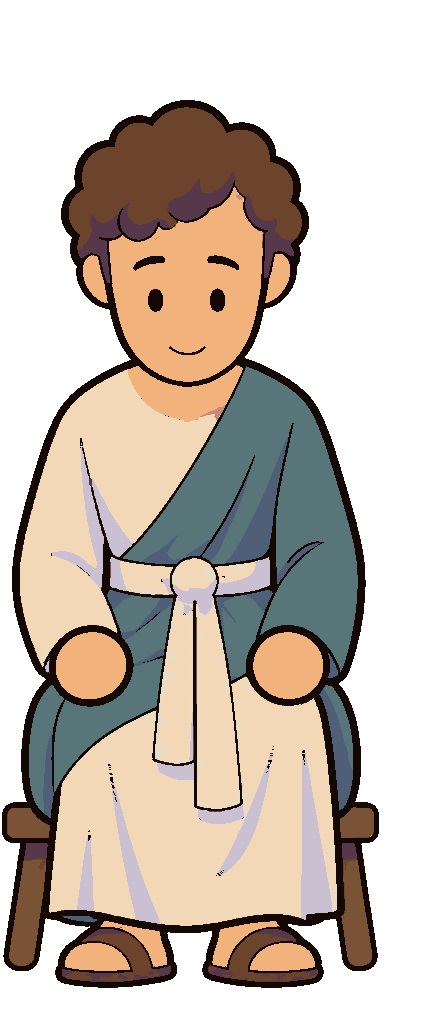
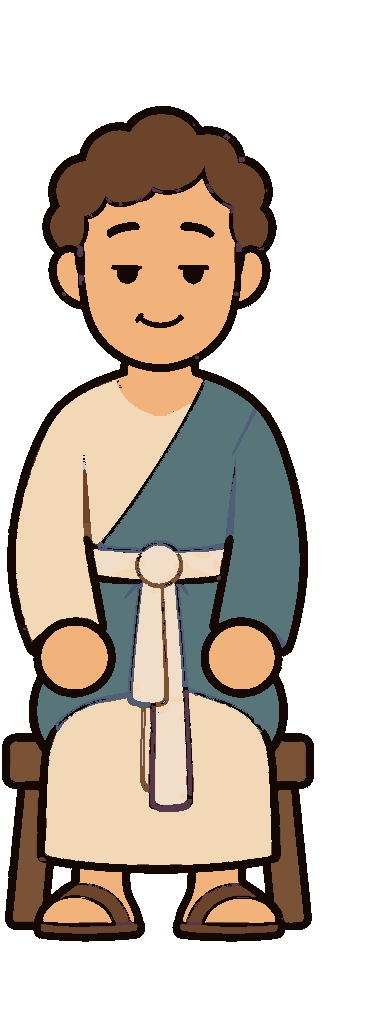
fix(animations): redraw the lead's close from his table sheet's down, lids on the scroll, so he is one man across the cold card; a cross-sheet head check holds each sheet's hair shade within 5 points of the member's first sheet (critique 2, finding 1)

diff --git a/apps/animations/src/films/in-its-order/storybook/sheets.ts b/apps/animations/src/films/in-its-order/storybook/sheets.ts
@@ -41,10 +41,6 @@ const LEAD_CUP =
   'a small plain clay cup painted exactly #7a5236, seen from the side, its rim hiding the milk';
 const VILLAGER_CUP = cup('#7a5236', '#d9cdb8');
 
-/** The lead seated, the bottle set down out of the picture, head bowed: one pose in his table sheet and his close (the table hides his lap, and a cream bottle on it read as his sash). */
-const LEAD_DOWN =
-  'seated on the stool exactly as in the first figure, the head bowed a little, the eyes looking down in front of him, both round hands in their sleeves resting empty on the knees, no bottle, a small sheepish mouth';
-
 /** What the lead's seated sheets ask beyond `seated`: his sash's pale cream on the sash alone, since his tunic's cream is near it and anything else in it read as the sash's top. */
 const SASH_ALONE =
   "The sash's pale cream #eadcc2 is on the sash alone: the tunic, its neckline and anything held, the bottle too, are the tunic's warm cream #f2d8b7 or another paint, never the sash's.";
@@ -84,22 +80,30 @@ const leadTable: SheetDecl = {
   props: BOTTLE_PROPS,
 };
 
-/** What the lead's close asks of his head beyond `seated` (critique 1, item 4: drawn darker, the snap split his hair between its shade and the sandals' brown): the hair, ears and neck as the front reference draws them. */
-const HEAD_AS_FRONT =
-  "His head is drawn exactly as in the front reference image at this larger size: the hair his warm brown #6c432b, its plum shade #57384a only in the small undersides of a few curls; the ears and the neck his skin #f2b27c, never brown; the sandals' brown #7a5236 on the sandals and the stool alone.";
+/** His table sheet, as a reference of his close: its fifth figure is the man the shot before the card leaves on screen (a path from his views folder, since a reference is named from there). */
+const TABLE_SHEET_REF = '../../shot-sheets/iio-table/sheet';
 
-/** The lead close (`cold-ouch`): three keys, so a close stays under the enlargement cap. */
+/** What the lead's close asks of his head and dress beyond `seated` (critique 2, finding 1: a close drawn from his front reference opened his eyes, clumped plum in his fringe, lengthened his face, widened his sash and drew lavender sickles on his robe): the man his table sheet's fifth figure draws, only larger. */
+const CLOSE_AS_TABLE =
+  "The first reference image is his table sheet: every figure here is exactly the man its fifth figure draws, only larger, the same in every line: the same head and face (a little longer than wide, as there, never longer), the same ears and neck in his skin #f2b27c; the same short curls in his warm brown #6c432b, with no darker clumps or patches in them, his plum shade #57384a at most a thin line under a curl or two; the same narrow sash and small knot in the sash's pale cream #eadcc2; the robe in its flat paints as there, its folds a few ink lines only, with no lavender, violet or grey marks, wedges or shading on the folds, the chest or the sleeves; the sandals' brown #7a5236 on the sandals and the stool alone.";
+
+/** The sash's light as his kept front view draws it (a measured paint), a paint his close alone adds: the close draws its sash so near its tunic's cream that the split gave the sash's paint one pixel and the proportions read no sash top; this light, 2.5 from the sash's base, gathers the drawn sash. */
+const CLOSE_SASH = [{ name: 'sash light', base: '#f2dec8', role: 'sash' }] as const;
+
+/** The lead close (`cold-ouch`): three keys, so a close stays under the enlargement cap. His `down` is his table sheet's `down`, lids half down on the scroll, as the shot before the card leaves him. */
 const leadClose: SheetDecl = {
   member: 'lead-feast',
   id: 'iio-close',
   keys: ['down', 'downBlink', 'wince'],
   poses: {
-    down: LEAD_DOWN.replace('exactly as in the first figure', 'facing the viewer'),
+    down: "seated on the low stool facing the viewer, the head held exactly as in the table sheet's fifth figure, the upper lids half down and the eyes looking down at the table in front of him, both round hands in their sleeves resting empty on the knees, no bottle, a small sheepish mouth",
     downBlink: `seated ${blink('first')}`,
-    wince: `seated on the stool exactly as in the first figure, both hands resting empty on the knees, the head bowed the same, wincing: the eyes squeezed shut as two short tight ink lines, the brows drawn together and tilted up at their inner ends, the mouth a short wavy line`,
+    wince:
+      'seated on the stool exactly as in the first figure, both hands resting empty on the knees, the head held the same, wincing: the eyes squeezed shut as two short tight ink lines, the brows drawn together and tilted up at their inner ends, the mouth a short wavy line',
   },
-  refs: ['front', 'heads-1'],
-  rules: [...seated('#7a5236'), SASH_ALONE, HEAD_AS_FRONT],
+  refs: [TABLE_SHEET_REF, 'front'],
+  rules: [...seated('#7a5236'), SASH_ALONE, CLOSE_AS_TABLE],
+  props: CLOSE_SASH,
 };
 
 /** The lead on the parchment (`milk-row`): standing, taking a cup. */

diff --git a/apps/animations/src/films/in-its-order/storybook/paints.test.ts b/apps/animations/src/films/in-its-order/storybook/paints.test.ts
@@ -2,9 +2,12 @@ import { Effect, Option } from 'effect';
 import { describe, expect, it } from 'effect-bun-test';
 import sharp from 'sharp';
 import type { Raster } from '@manna/film/tools';
-import { hexOf, MOTTLE_PX, paintsOf } from '../../../library/storybook/sheet.ts';
+import { hexOf, medianOf, MOTTLE_PX, paintsOf } from '../../../library/storybook/sheet.ts';
 import { SHEET_CELLS } from './cells.ts';
-import { sheetNamed } from './sheets.ts';
+import { SHEETS, sheetNamed } from './sheets.ts';
+
+/** How far (a share of the hair) a cell's head-band hair shade may lie from its member's first sheet's median: the lead's table, milk and redrawn close sheets read 0.5 to 3.5 %, the close before it 19.6 to 20.3 % (critique 2, finding 1). */
+const SHADE_SPREAD = 0.05;
 
 /** The most of a head band's hair that may be its hair shade (critique 1, item 4): the table and milk sheets read 0.5 to 8.3 %, the close redrawn from his front 20 % (the curls' shaded undersides, larger in a close), the old close 99.6 % (its base drawn in sandal brown). */
 const SHADE_MAX = 0.25;
@@ -66,9 +69,10 @@ const headBandOf = (r: Raster, head: number, paints: (typeof CELLS)[number]['pai
   return counts;
 };
 
-/** The cells of each sheet with props that hold its prop: the lead's bottle in `lift` and `bottle`, the older diner's open mouth in `talk`. */
+/** The cells of each sheet with props that hold its prop: the lead's bottle in `lift` and `bottle`, his close's sash light in every cell, the older diner's open mouth in `talk`. */
 const PROP_CELLS: ReadonlyMap<string, ReadonlyArray<string>> = new Map([
   ['lead-feast/iio-table', ['lift', 'bottle']],
+  ['lead-feast/iio-close', ['down', 'downBlink', 'wince']],
   ['filler-dressed/iio-diner-3', ['talk']],
 ]);
 
@@ -193,6 +197,38 @@ describe("In Its Order's sheet paints", () => {
           }),
         );
         expect(misses.flat()).toEqual([]);
+      }),
+  );
+
+  it.effect(
+    'draws one head across a member’s sheets: each cell’s head-band hair shade within 5 points of the median of the member’s first sheet, so a close is the man the table drew (critique 2, finding 1: the close read 19.6 to 20.3 %, the table 2.3 to 3.5 %)',
+    () =>
+      Effect.gen(function* () {
+        const shares = yield* Effect.forEach(
+          CELLS.filter((c) => Option.isSome(c.head) && c.paints.some((p) => p.role === 'hair')),
+          (c) =>
+            Effect.map(rasterOf(c.png), (r) => {
+              const band = headBandOf(
+                r,
+                Option.getOrElse(c.head, () => 0),
+                c.paints,
+              );
+              return { ...c, share: band.shade / Math.max(1, band.base + band.shade) };
+            }),
+        );
+        const misses = shares.flatMap((c) => {
+          const [member = ''] = c.sheet.split('/');
+          const first = SHEETS.find((s) => s.member === member);
+          const reference = medianOf(
+            shares.filter((o) => o.sheet === `${member}/${first?.id}`).map((o) => o.share),
+          );
+          if (Option.isNone(reference) || Math.abs(c.share - reference.value) <= SHADE_SPREAD)
+            return [];
+          return [
+            `${c.sheet} ${c.cell}: hair shade ${(c.share * 100).toFixed(1)} % against ${(reference.value * 100).toFixed(1)} % on ${member}/${first?.id}`,
+          ];
+        });
+        expect(misses).toEqual([]);
       }),
   );
 });

diff --git a/apps/animations/src/library/cast/lead-feast/shot-sheets/iio-close/cells.ts b/apps/animations/src/library/cast/lead-feast/shot-sheets/iio-close/cells.ts
@@ -4,7 +4,7 @@ import cell2 from './cells/wince.png' with { type: 'file' };
 
 /** Each cell of this sheet as a film draws it: its PNG, its size in px, its soles’ centre and its head (crown to collar) in px where its lines read one. Written by `storybook draw` and `storybook resplit`. */
 export const CELLS = {
-  down: { png: cell0, size: [446, 1024], ax: 189.5, ay: 988, head: 322 },
-  downBlink: { png: cell1, size: [512, 1024], ax: 256.5, ay: 988, head: 322 },
-  wince: { png: cell2, size: [447, 1024], ax: 256.5, ay: 988, head: 322 },
+  down: { png: cell0, size: [382, 1024], ax: 158.5, ay: 942, head: 310 },
+  downBlink: { png: cell1, size: [448, 1024], ax: 224.5, ay: 942, head: 310 },
+  wince: { png: cell2, size: [382, 1024], ax: 225.5, ay: 942, head: 311 },
 } as const;

diff --git a/apps/animations/src/films/in-its-order/storybook/palettes.ts b/apps/animations/src/films/in-its-order/storybook/palettes.ts
@@ -74,6 +74,13 @@ export const MEASURED: ReadonlyArray<MeasuredPaint> = [
     box: { x: 970, y: 345, width: 20, height: 30 },
     what: "the baby's bottle he holds up in `bottle` (iio-table's prop; asked as #f3e3a0)",
   },
+  {
+    member: 'lead-feast',
+    hex: '#f2dec8',
+    source: 'cast-sheet/views/front.png',
+    box: { x: 122, y: 430, width: 12, height: 30 },
+    what: "his sash's hanging tail in his kept front view: the sash's light, which iio-close's drawn sash is split to (iio-close's paint)",
+  },
 ];
 
 /** Each of `hexes` a member's palette takes that neither its `look` (lowercased) gives nor one of its `measured` paints declares. */

diff --git a/apps/animations/src/films/in-its-order/storybook/shots/cold.ts b/apps/animations/src/films/in-its-order/storybook/shots/cold.ts
@@ -435,9 +435,9 @@ export const coldOuch: FilmShot = {
             { headPx: HEAD, z: Z.table },
             holds(
               [
-                [0, 'down', 'downBlink'],
+                [0, 'down', 'down'],
                 [cue('wince').start, 'wince', 'wince'],
-                [cue('wince').end, 'down', 'downBlink'],
+                [cue('wince').end, 'down', 'down'],
               ],
               duration,
             ),

diff --git a/apps/animations/src/films/in-its-order/storybook/holds.test.ts b/apps/animations/src/films/in-its-order/storybook/holds.test.ts
@@ -25,7 +25,7 @@ const ALIVE = 4.6;
  * changes key within `ALIVE` instead (compaction-3 ruling; a blink never
  * swaps the whole drawing, round 3, M1).
  */
-const LIDDED = new Set(['lead-feast/iio-table down']);
+const LIDDED = new Set(['lead-feast/iio-table down', 'lead-feast/iio-close down']);
 
 /** Every hold of the film that shows no blink though its sheet has a `<cell>Blink` key. */
 const stills = placed.flatMap(({ shot }) =>

diff --git a/apps/animations/src/films/in-its-order/storybook/kit.ts b/apps/animations/src/films/in-its-order/storybook/kit.ts
@@ -111,7 +111,7 @@ export const layer = (name: string, z: number, items: Layer['items']): Layer => 
  */
 export const TALL: ReadonlyMap<string, number> = new Map([
   ['lead-feast/iio-table', 604],
-  ['lead-feast/iio-close', 888],
+  ['lead-feast/iio-close', 836],
   ['lead-feast/iio-milk', 868],
   ['feast-mother/iio-baby', 922],
   ['feast-guest-man/iio-table', 668],
